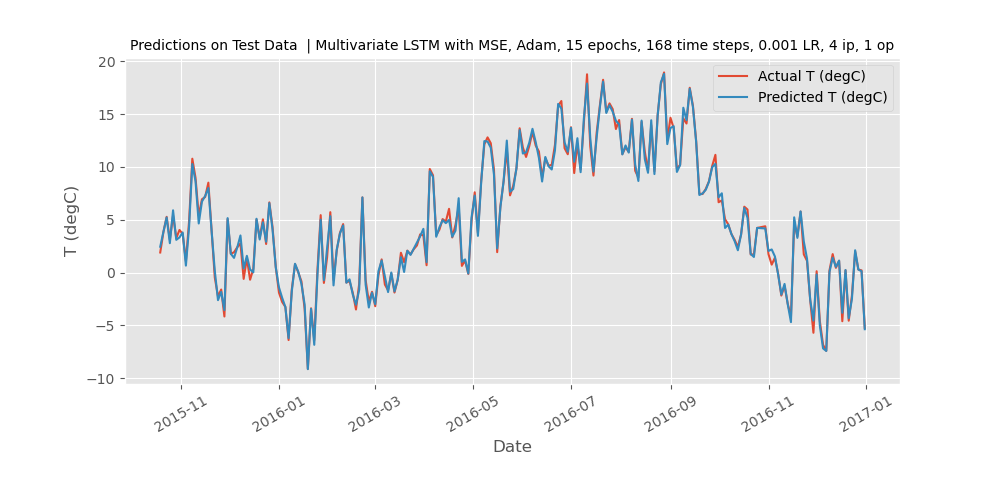
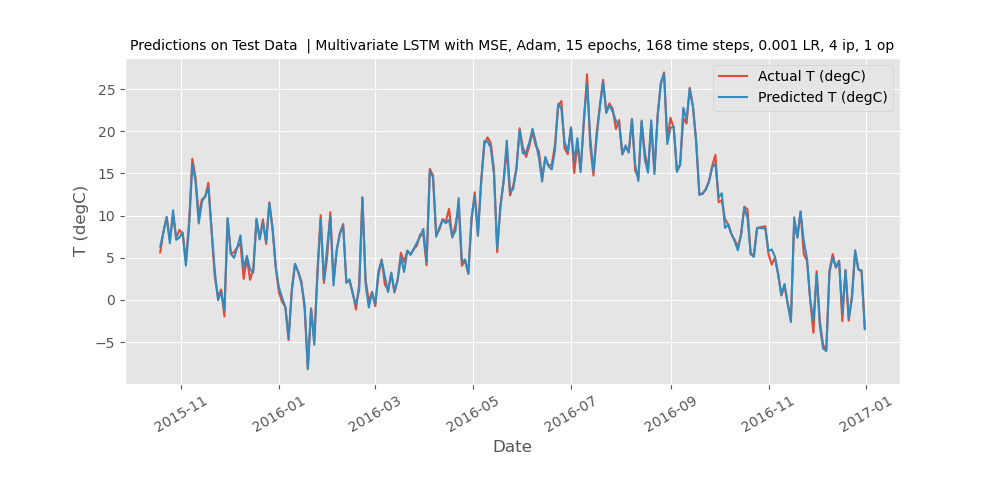
Multivariate temp pressure added

diff --git a/dataset.py b/dataset.py
@@ -30,6 +30,7 @@ def read_data():
     
     # Converting string datetime to pandas datetime
     df['Date Time'] = pd.to_datetime(df['Date Time'], format='%d.%m.%Y %H:%M:%S')
+   
     
     # Setting index to Date Time
     df.index = df['Date Time']
@@ -85,7 +86,7 @@ def load_temperature_dataset(time_steps):
     
     # Creating a custom dataset with Date Time and Temperature Only
     df_univariate = df.loc[:, ['T (degC)']]
-    df_univariate.to_csv('temperature_prediction_univariate_data.csv')
+    # df_univariate.to_csv('temperature_prediction_univariate_data.csv')
     
     # Let's do some normalization
     scaler = StandardScaler()
@@ -110,7 +111,7 @@ def load_multivariate_dataset(time_steps):
     # Creating a custom dataset with Date Time, Pressure, Temperature, Dew Point Temperature 
     # and Relative  Humidity Only
     df_multivariate = df.loc[:, ['T (degC)', 'Tdew (degC)', 'p (mbar)',	'rh (%)']]
-    df_multivariate.to_csv('temperature_prediction_multivariate_data.csv')
+    # df_multivariate.to_csv('temperature_prediction_multivariate_data.csv')
     
     # Let's do some normalization
     scaler = StandardScaler()

diff --git a/utility.py b/utility.py
@@ -103,10 +103,15 @@ def test_model(model, data, scaler, date_time,  ticks, info='Test Dataset'):
         else:
             prediction_copies = np.repeat(predictions, inputs.shape[2], axis=-1)
             target_copies = np.repeat(target, inputs.shape[2], axis=-1)
-        predictions = scaler.inverse_transform(prediction_copies)[:,1]        
-        actual_target = scaler.inverse_transform(target_copies)[:,1]
-        print("P:", predictions)
-        print("A:", actual_target)
+            
+        if i == 0: 
+            k = 0    # index for temperature
+        else:
+            k = 2    # index for pressure
+        
+        predictions = scaler.inverse_transform(prediction_copies)[:,k]        
+        actual_target = scaler.inverse_transform(target_copies)[:,k]
+
         caption = f"Predictions on {info} "
         file_name = f"of {NAME}.png"
         plt.style.use("ggplot")

diff --git a/config.py b/config.py
@@ -16,7 +16,7 @@ NUM_EPOCHS = 15
 LEARNING_RATE = 0.001
 LOSS = "MSE"
 OPTIMIZER = "Adam"
-TYPE = "Univariate"
+TYPE = "Multivariate"
 
 if TYPE == "Univariate":
     INPUT_SIZE = 1
@@ -26,10 +26,10 @@ elif TYPE == "Multivariate":
 
 HIDDEN_SIZE = 10
 NUM_LAYERS = 2
-TIME_STEPS = 24 * 365
+TIME_STEPS = 24 * 7
 
-OUTPUT_COLS = ['T (degC)']
-# OUTPUT_COLS = ['T (degC)', 'p (mbar)']
+# OUTPUT_COLS = ['T (degC)']
+OUTPUT_COLS = ['T (degC)', 'p (mbar)']
 OUTPUT_SIZE = len(OUTPUT_COLS)
 
 
